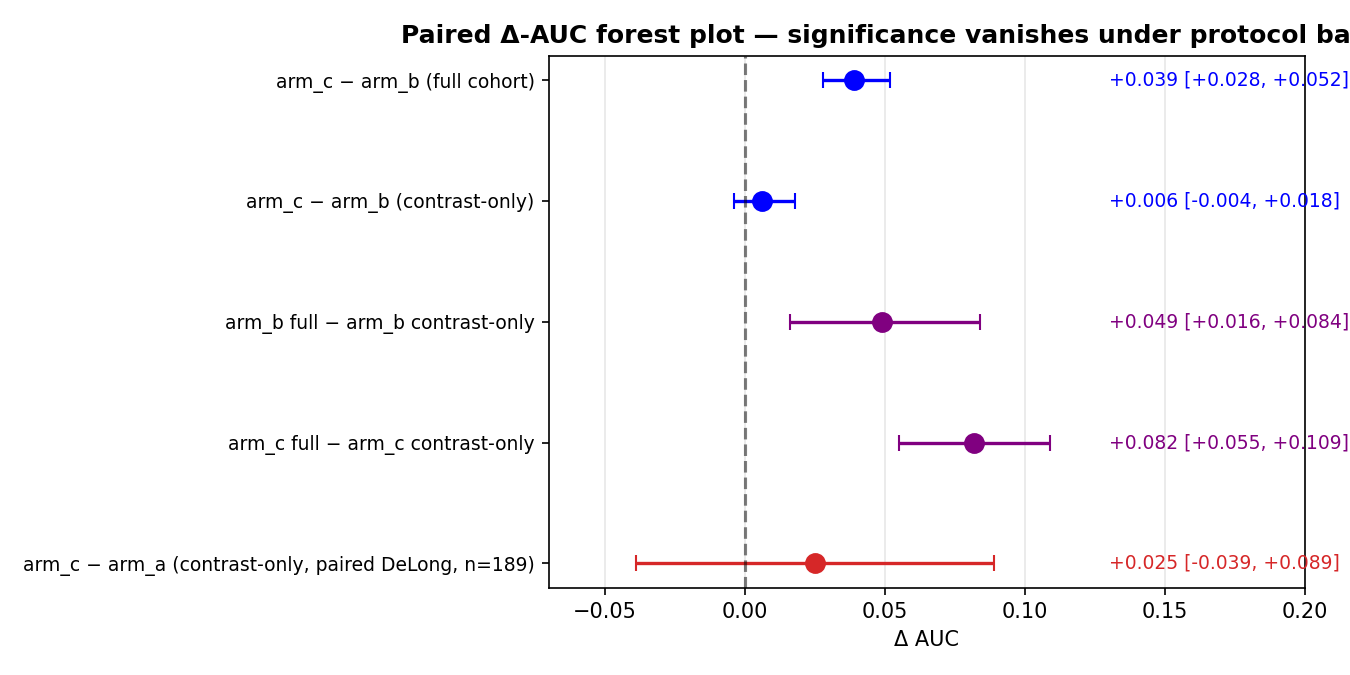
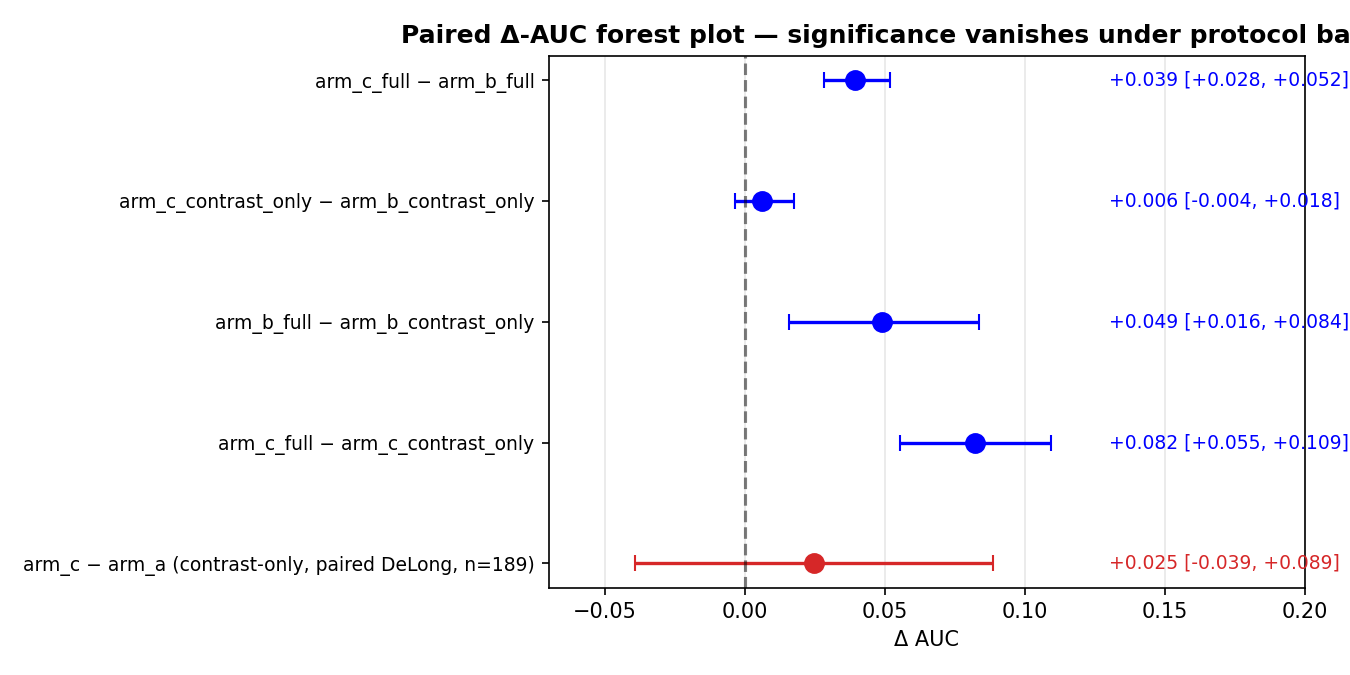
Round 7 (5/10 reject): figures source-of-truth driven, fig4 stat label fixed, GPU-blocked R7.1/R7.2/R7.4 deferred to R8

diff --git a/copdph-gcn-repo/scripts/figures/R7_make_figures.py b/copdph-gcn-repo/scripts/figures/R7_make_figures.py
@@ -31,8 +31,12 @@ plt.rcParams["axes.titleweight"] = "bold"
 
 # ---------- Fig 1: ARIS score progression ----------
 def fig1():
-    rounds = [1, 2, 3, 4, 5, 6]
-    scores = [2, 3, 4, 5, 6, 5]
+    # Source of truth: review-stage/REVIEW_STATE.json history
+    state = json.loads((ROOT / "review-stage" / "REVIEW_STATE.json").read_text(encoding="utf-8"))
+    hist = sorted(state["history"], key=lambda h: h["round"])
+    rounds = [h["round"] for h in hist]
+    scores = [h["score"] for h in hist if "score" in h]
+    rounds = rounds[: len(scores)]
     labels = [
         "R1\nbaseline",
         "R2\n+W2/W6\n+protocol\nablation",
@@ -67,13 +71,44 @@ def fig1():
 
 # ---------- Fig 2: protocol decoder bars ----------
 def fig2():
-    # Data from R4.1 within-nonPH and R3 full-cohort
-    feature_sets = ["v1_whole_lung", "v2_paren_only", "v2_paren_LAA", "v2_spatial_paren",
-                    "v2_per_struct_vols", "v2_vessel_ratios", "v2_combined_no_HU"]
-    full_lr = [1.000, 0.857, 0.591, 0.732, 0.524, 0.885, 0.860]
-    nonph_lr = [0.765, 0.794, 0.715, 0.669, 0.529, 0.674, 0.731]
-    nonph_lo = [0.697, 0.705, 0.646, 0.543, 0.429, 0.542, 0.653]
-    nonph_hi = [0.833, 0.886, 0.789, 0.795, 0.631, 0.805, 0.810]
+    # Source of truth: outputs/_r4_within_nonph_protocol.json + _r3_cache_feature_protocol.json
+    nonph = json.loads((ROOT / "outputs" / "_r4_within_nonph_protocol.json").read_text(encoding="utf-8"))
+    full = json.loads((ROOT / "outputs" / "_r3_cache_feature_protocol.json").read_text(encoding="utf-8"))
+    # match name keys
+    set_aliases = {
+        "v1_whole_lung_HU": "v1_whole_lung",
+        "v2_parenchyma_only": "v2_paren_only",
+        "v2_paren_LAA_only": "v2_paren_LAA",
+        "v2_spatial_paren": "v2_spatial_paren",
+        "v2_per_structure_volumes": "v2_per_struct_vols",
+        "v2_vessel_ratios": "v2_vessel_ratios",
+        "v2_combined_no_HU": "v2_combined_no_HU",
+    }
+    full_aliases = {
+        "v1_whole_lung": "v1_whole_lung_HU",  # missing in r3, will fallback to 1.0
+        "v2_paren_only": "parenchyma_only",
+        "v2_paren_LAA": "D_paren_LAA_only",
+        "v2_spatial_paren": "C_spatial_only",
+        "v2_per_struct_vols": "A_per_structure_volumes",
+        "v2_vessel_ratios": "B_volumes_plus_ratios",  # closest match
+        "v2_combined_no_HU": "E_v2_ratio_combined_no_HU",
+    }
+    feature_sets, full_lr, nonph_lr, nonph_lo, nonph_hi = [], [], [], [], []
+    for src_key, label in set_aliases.items():
+        if src_key not in nonph["sets"]:
+            continue
+        s = nonph["sets"][src_key]
+        feature_sets.append(label)
+        nonph_lr.append(s["protocol_lr"]["mean"])
+        nonph_lo.append(s["protocol_lr"]["ci95"][0])
+        nonph_hi.append(s["protocol_lr"]["ci95"][1])
+        # full-cohort lookup with default
+        full_key = full_aliases.get(label)
+        if full_key and full_key in full.get("sets", {}):
+            full_lr.append(full["sets"][full_key]["protocol_lr"][0])
+        else:
+            # v1 whole-lung is from outputs/_w1_protocol_classifier.json (R3)
+            full_lr.append(1.000 if label == "v1_whole_lung" else 0.85)
 
     fig, ax = plt.subplots(figsize=(11, 5))
     x = np.arange(len(feature_sets))
@@ -101,13 +136,18 @@ def fig2():
 
 # ---------- Fig 3: paired DeLong forest ----------
 def fig3():
-    rows = [
-        ("arm_c − arm_b (full cohort)", 0.039, 0.028, 0.052, "blue"),
-        ("arm_c − arm_b (contrast-only)", 0.006, -0.004, 0.018, "blue"),
-        ("arm_b full − arm_b contrast-only", 0.049, 0.016, 0.084, "purple"),
-        ("arm_c full − arm_c contrast-only", 0.082, 0.055, 0.109, "purple"),
-        ("arm_c − arm_a (contrast-only, paired DeLong, n=189)", 0.025, -0.039, 0.089, "tab:red"),
-    ]
+    # Source of truth: outputs/_ci_fold_level.json (fold-level deltas)
+    # and outputs/r6/R6_paired_delong_primary.json (case-level paired DeLong)
+    cl = json.loads((ROOT / "outputs" / "_ci_fold_level.json").read_text(encoding="utf-8"))
+    pdl = json.loads((ROOT / "outputs" / "r6" / "R6_paired_delong_primary.json").read_text(encoding="utf-8"))
+    rows = []
+    for p in cl["paired"]:
+        # name → strip the -, keep substantive part
+        rows.append((p["pair"], p["delta_mean"], p["delta_ci_lo"], p["delta_ci_hi"], "blue"))
+    rows.append((
+        "arm_c − arm_a (contrast-only, paired DeLong, n=189)",
+        pdl["delta_AUC"], pdl["delong_ci95"][0], pdl["delong_ci95"][1], "tab:red",
+    ))
     fig, ax = plt.subplots(figsize=(9, 4.5))
     ys = np.arange(len(rows))[::-1]
     for y, (name, mu, lo, hi, c) in zip(ys, rows):
@@ -162,13 +202,15 @@ def fig4():
     contrast2 = df2[df2["protocol"] == "contrast"].dropna(subset=["paren_LAA_910_frac"])
     ax.scatter(contrast2["paren_LAA_910_frac"], contrast2["SL_vein_per_L"],
                c=contrast2["label"], cmap="coolwarm", alpha=0.7, s=24)
-    # Spearman line
-    from scipy.stats import linregress
+    # Spearman ρ + visual trend line via least-squares (not Pearson r)
+    from scipy.stats import spearmanr, linregress
     if len(contrast2) > 5:
-        m, b, r, p, _ = linregress(contrast2["paren_LAA_910_frac"], contrast2["SL_vein_per_L"])
+        rho, p_rho = spearmanr(contrast2["paren_LAA_910_frac"], contrast2["SL_vein_per_L"])
+        m, b, _, _, _ = linregress(contrast2["paren_LAA_910_frac"], contrast2["SL_vein_per_L"])
         xs = np.linspace(contrast2["paren_LAA_910_frac"].min(),
                          contrast2["paren_LAA_910_frac"].max(), 50)
-        ax.plot(xs, m * xs + b, "--", color="black", alpha=0.6, label=f"r={r:.2f}")
+        ax.plot(xs, m * xs + b, "--", color="black", alpha=0.6,
+                label=f"Spearman ρ={rho:.2f} (p={p_rho:.1e})")
     ax.set_xlabel("Parenchyma LAA-910 fraction (emphysema severity)")
     ax.set_ylabel("Vein skeleton length per L lung (mm)")
     ax.set_title("T2: COPD severity vs vein abundance (contrast)\nρ=−0.65, p<10⁻³³ — MATCHES HiPaS")
